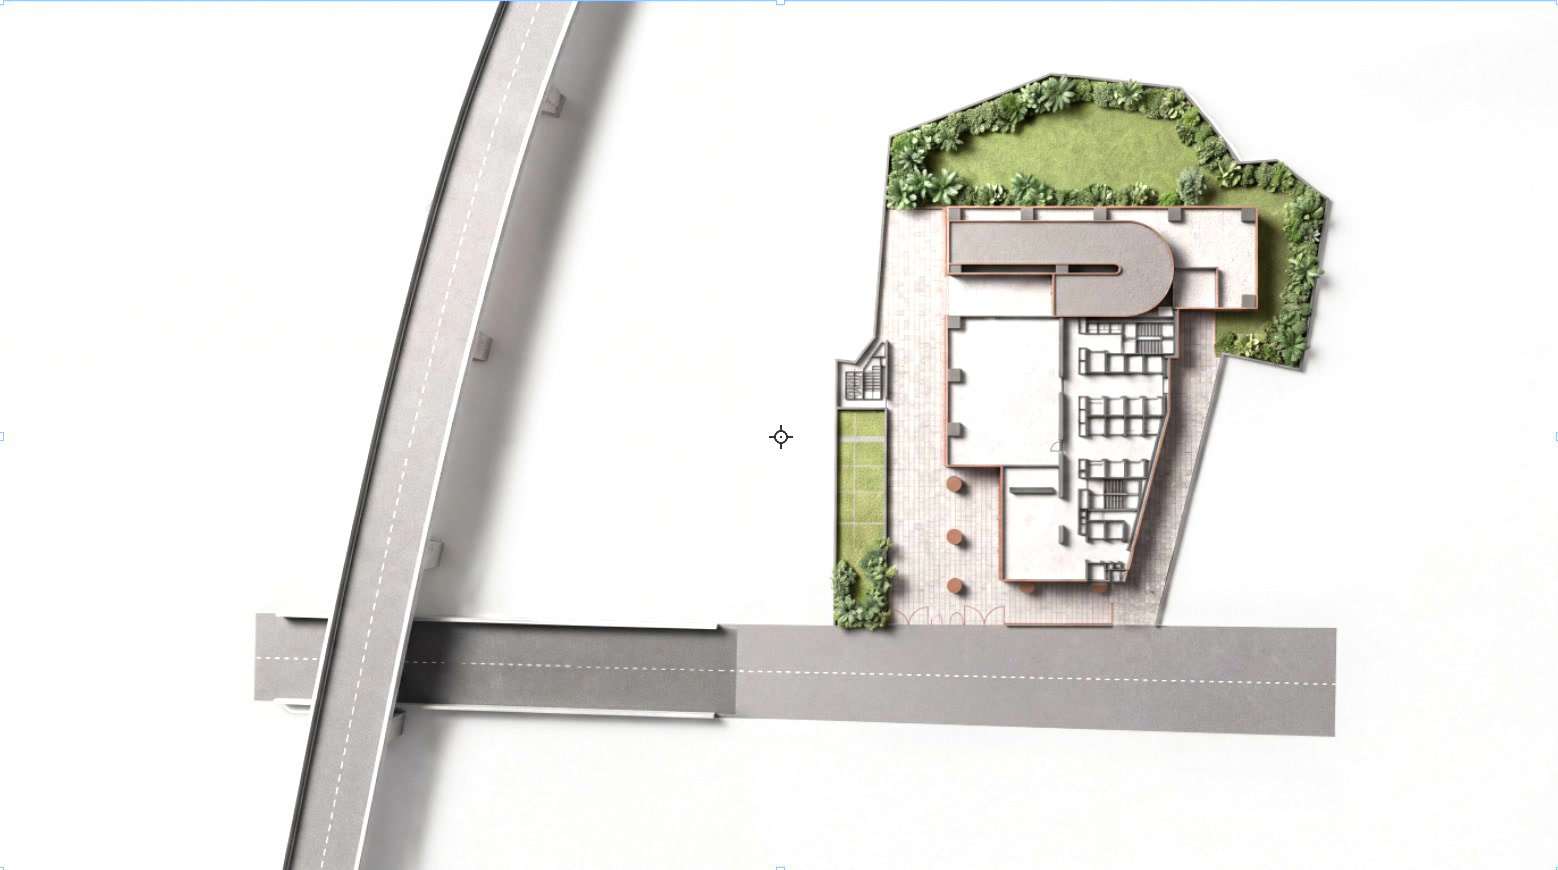
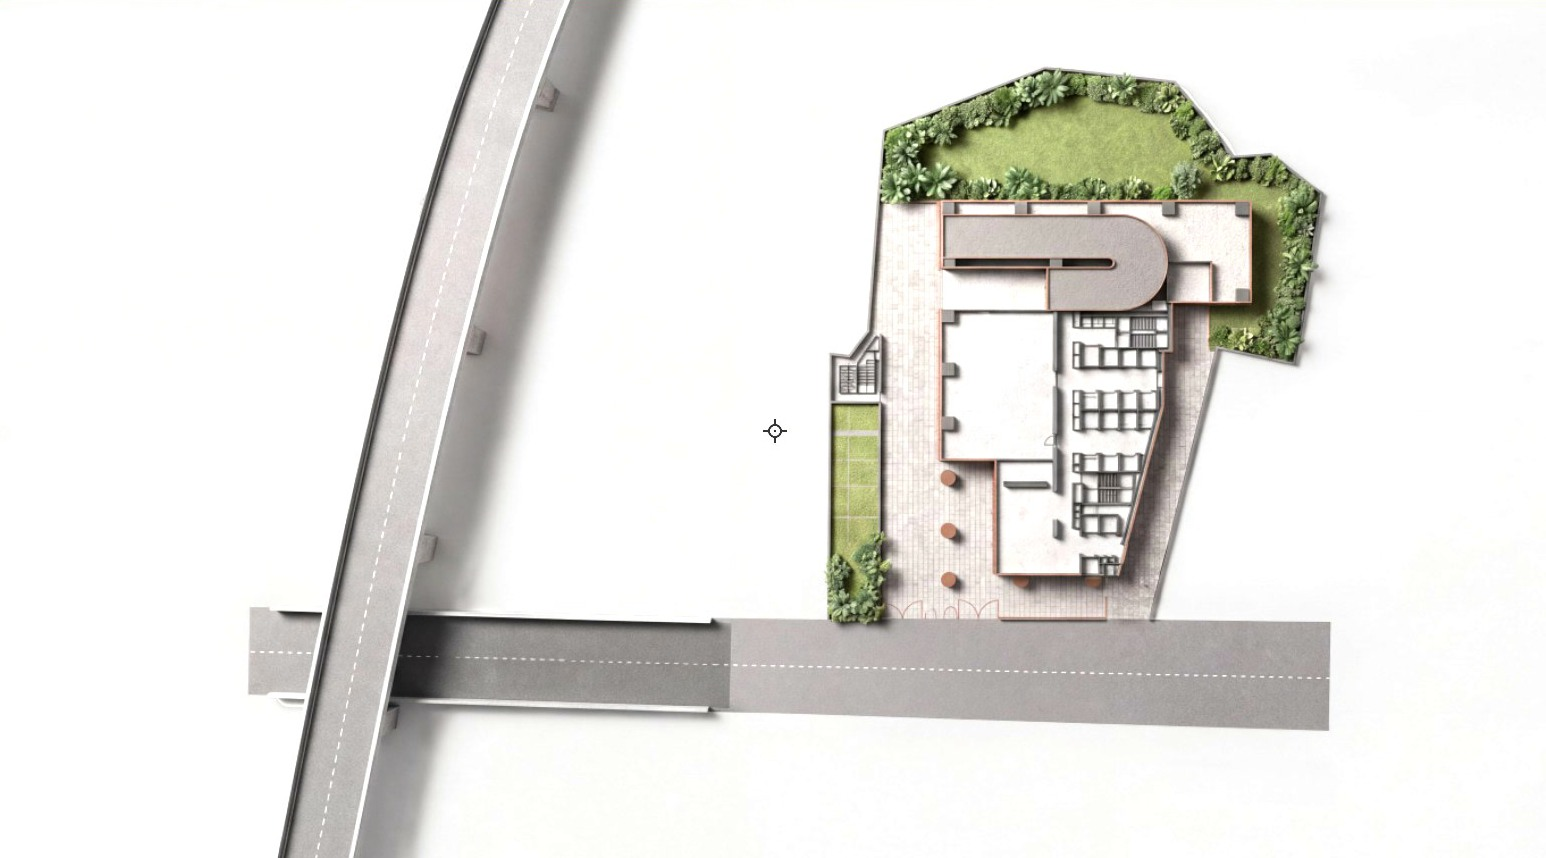
Crop selection-box artifacts from master plan, rename Underpass label to Elphinstone Bridge

Changed region(s): [[0.1552, 0.0, 0.8693, 1.0]]

diff --git a/index.html b/index.html
@@ -575,7 +575,7 @@ let state={connectionFilter:"transit",view:'overview',locChoice:0,aerialMode:'wi
 let drawerMode=null,lastFocus=null,toastTimer=null,drag=null;
 const feedback={};const stage=document.getElementById('stage'),app=document.getElementById('app'),backdrop=document.getElementById('backdrop'),drawer=document.getElementById('drawer');
 const esc=s=>String(s).replace(/[&<>"']/g,c=>({'&':'&amp;','<':'&lt;','>':'&gt;','"':'&quot;',"'":'&#39;'}[c]));
-const CALLOUTS={typical:{W:1666,H:2000,items:[['Services',729,588,'L',680],["Gent's Toilet",838,578,'L',470],['Ladies Toilet',973,580,'R',680],['Services',1107,552,'R',440],['S Lift',850,880,'L',880],['Lift Core',930,1120,'L',1120],['Services',730,1668,'L',1668]]},master:{W:1558,H:870,items:[["Ground RG",1062,142,"R",120,1560],["Ramp to Basement",1048,262,"R",250,1560],["Services",992,390,"L",330,800],["Amenity Plot",860,482,"L",420,780],["Reception",1034,524,"L",510,800],["Lift Core",1119,411,"R",380,1560],["Entry",920,623,"L",600,800],["Exit",1133,623,"R",560,1560],["Senapati Bapat Marg Flyover",420,430,"L",250,300],["Underpass",570,668,"L",770,300]]},cafeteria_plan:{W:1282,H:1600,items:[['Kitchen Area',1016,190,'R',190],['Cafeteria',226,866,'L',866],['Services',835,427,'R',440],['Elec Room',528,427,'L',427],['Lift Core',700,820,'R',820],['Toilets',525,1310,'L',1300],['AHU',668,1311,'R',1330]]}};
+const CALLOUTS={typical:{W:1666,H:2000,items:[['Services',729,588,'L',680],["Gent's Toilet",838,578,'L',470],['Ladies Toilet',973,580,'R',680],['Services',1107,552,'R',440],['S Lift',850,880,'L',880],['Lift Core',930,1120,'L',1120],['Services',730,1668,'L',1668]]},master:{W:1558,H:870,items:[["Ground RG",1062,142,"R",120,1560],["Ramp to Basement",1048,262,"R",250,1560],["Services",992,390,"L",330,800],["Amenity Plot",860,482,"L",420,780],["Reception",1034,524,"L",510,800],["Lift Core",1119,411,"R",380,1560],["Entry",920,623,"L",600,800],["Exit",1133,623,"R",560,1560],["Senapati Bapat Marg Flyover",420,430,"L",250,300],["Elphinstone Bridge",570,668,"L",770,300]]},cafeteria_plan:{W:1282,H:1600,items:[['Kitchen Area',1016,190,'R',190],['Cafeteria',226,866,'L',866],['Services',835,427,'R',440],['Elec Room',528,427,'L',427],['Lift Core',700,820,'R',820],['Toilets',525,1310,'L',1300],['AHU',668,1311,'R',1330]]}};
 const planNotes=k=>{const c=CALLOUTS[k];if(!c)return'';return '<div class="plan-notes" aria-hidden="true">'+c.items.map(([txt,x1,y1,side,ly,lx],i)=>{const x2=lx!=null?lx:side==='L'?-.04*c.W:1.04*c.W,dx=x2-x1,dy=ly-y1,len=Math.hypot(dx,dy)/c.W*100,ang=Math.atan2(dy,dx),d=(2.4+i*.72).toFixed(2)+'s',pc=(x,y)=>'left:'+(x/c.W*100).toFixed(2)+'%;top:'+(y/c.H*100).toFixed(2)+'%';return '<i class="pn-line" style="'+pc(x1,y1)+';width:'+len.toFixed(2)+'%;--a:'+ang.toFixed(4)+'rad;--d:'+d+'"></i><i class="pn-dot" style="'+pc(x1,y1)+';--d:'+d+'"></i><b class="pn-label '+side.toLowerCase()+'" style="'+pc(x2,ly)+';--n:'+txt.length+';--d:'+d+'">'+esc(txt)+'</b>'}).join('')+'</div>'};
 const image=(k,alt,cls='photo',style='')=>`<img src="${A[k]}" width="${ASSETS[k].width}" height="${ASSETS[k].height}" alt="${esc(alt)}" class="${cls}" ${style?`style="${style}"`:''} draggable="false">`;
 const action=(text,v,secondary=false)=>`<button type="button" class="${secondary?'secondary-action':'text-button'}" data-action="view" data-view="${v}">${text}${secondary?'':'<span class="arrow" aria-hidden="true">→</span>'}</button>`;
